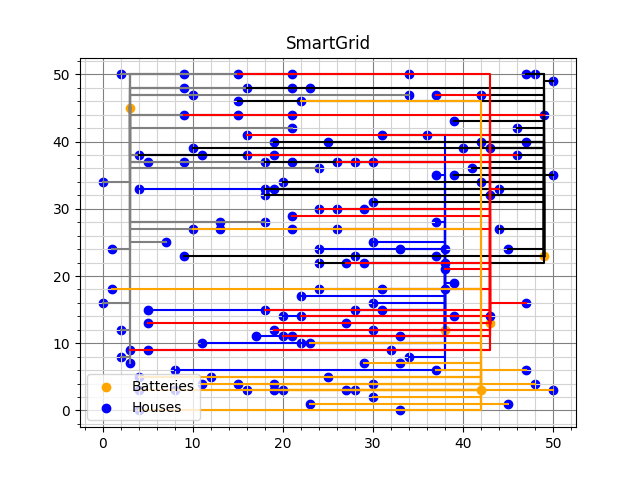
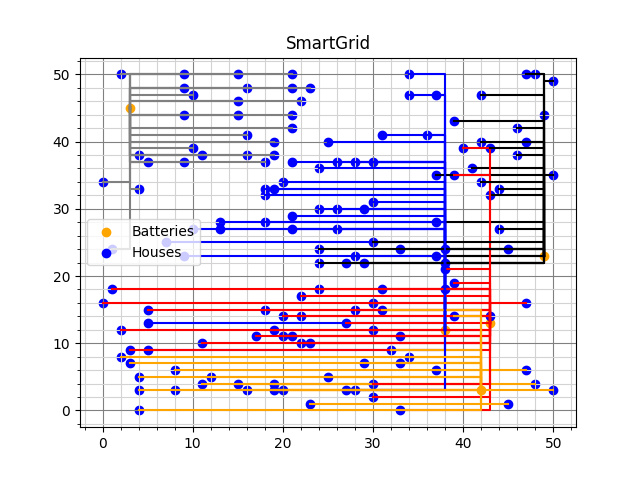
for the pull

Changed region(s): [[0.125, 0.125, 0.875, 0.875]]

diff --git a/main.py b/main.py
@@ -1,11 +1,6 @@
 from code.classes import grid
-<<<<<<< HEAD
-from code.algorithms import hill_climber, hill_climber_fix_greedy, simulated_annealing2, simulated_annealing, fix_greedy, greedy, original_greedy
-from code.visualisations import visualise_costs,  visualise_cables
-=======
 from code.algorithms import hill_climber, hill_climber_fix2, simulated_annealing2, simulated_annealing, fix_greedy, greedy, original_greedy, baseline
-from code.visualisations import visualise_costs
->>>>>>> 723a0da3c7627086ccd41f34600c9537b8c6b07a
+from code.visualisations import visualise_costs, visualise_cables
 
 import json
 import pandas as pd
@@ -14,25 +9,25 @@ import pickle
 if __name__ == "__main__":
     district_number = "1"
 
-    # battery_file = (f"data/Huizen&Batterijen/district_{district_number}/district-{district_number}_batteries.csv")
-    battery_file = (f"SmartGrid/data/Huizen&Batterijen/district_{district_number}/district-{district_number}_batteries.csv")
+    battery_file = (f"data/Huizen&Batterijen/district_{district_number}/district-{district_number}_batteries.csv")
+    #battery_file = (f"SmartGrid/data/Huizen&Batterijen/district_{district_number}/district-{district_number}_batteries.csv")
 
-    # house_file = (f"data/Huizen&Batterijen/district_{district_number}/district-{district_number}_houses.csv")
-    house_file = (f"SmartGrid/data/Huizen&Batterijen/district_{district_number}/district-{district_number}_houses.csv")
+    house_file = (f"data/Huizen&Batterijen/district_{district_number}/district-{district_number}_houses.csv")
+    #house_file = (f"SmartGrid/data/Huizen&Batterijen/district_{district_number}/district-{district_number}_houses.csv")
 
     grid1 = grid.Grid(house_file, battery_file)
 
     # --------------------------- baseline --------------------------
-    # baseline_costs = list()
+    baseline_costs = list()
 
-    # for i in range(1000):
-    #     baseline1 = baseline.Baseline(grid1)
-    #     baseline1.run()
-        # baseline_costs.append(baseline1.calc_cost())
-        # if baseline1.grid.is_valid():
-        #     print("hurray")
+    for i in range(1000):
+        baseline1 = baseline.Baseline(grid1)
+        baseline1.run()
+        baseline_costs.append(baseline1.calc_cost())
+        if baseline1.grid.is_valid():
+            print("hurray")
     
-    # visualise_costs.visualise_costs(random_costs, "random")
+    visualise_costs.visualise_costs(random_costs, "random")
     
     # --------------------------- original greedy--------------------------
     # greedy1_costs = list()
@@ -52,27 +47,16 @@ if __name__ == "__main__":
     # visualise_costs.visualise_costs(greedy1_costs, "greedy1")
 
     # --------------------------- greedy 2 --------------------------
-    # greedy2_costs = list()
+    greedy2_costs = list()
     
-<<<<<<< HEAD
-    for i in range(2):
+    for i in range(10):
         greedy2 = greedy.Greedy(grid1)
         greedy2.run_greedy()
-        print('got here')
-        fixed_greedy = hill_climber_fix_greedy.Hill_climber(greedy2.grid)
-        print('check2')
-        fixed_greedy.run_fix(10)
-        greedy2_costs.append(fix_greedy.grid.calc_cost())
-=======
-    # for i in range(2):
-    #     greedy2 = greedy.Greedy(grid1)
-    #     greedy2.run_greedy()
-    #     fixed_greedy = fix_greedy.Fix_greedy(greedy2.grid)
-    #     fixed_greedy.run2()
-    #     greedy2_costs.append(fix_greedy.grid.calc_cost())
->>>>>>> 723a0da3c7627086ccd41f34600c9537b8c6b07a
+        # fixed_greedy = fix_greedy.Fix_greedy(greedy2.grid)
+        # fixed_greedy.run2()
+        greedy2_costs.append(greedy2.grid.calc_cost())
 
-    # visualise_costs.visualise_costs(greedy2_costs, "greedy2")
+    visualise_costs.visualise_costs(greedy2_costs, "greedy2")
 
     # --------------------------- Hill Climber ---------------------------------
     # print("Setting up Hill Climber...")
@@ -87,25 +71,25 @@ if __name__ == "__main__":
     # print("valid?")
     # print(climber.grid.is_valid())
 
-    # --------------------------- Hill Climber fix 2 ---------------------------------
-    print("Setting up Hill Climber...")
-    climber = hill_climber_fix2.Hill_climber(grid1)
+    # # --------------------------- Hill Climber fix 2 ---------------------------------
+    # print("Setting up Hill Climber...")
+    # climber = hill_climber_fix2.Hill_climber(grid1)
 
-    print("Running Hill Climber...")
-    climber.run(10000, verbose=True, mutate_houses_number=10)
+    # print("Running Hill Climber...")
+    # climber.run(10000, verbose=True, mutate_houses_number=10)
 
-    print(f"Value of the configuration after Hill Climber: "
-          f"{climber.grid.calc_cost()}")
+    # print(f"Value of the configuration after Hill Climber: "
+    #       f"{climber.grid.calc_cost()}")
 
-    print("valid?")
-    print(climber.grid.is_valid())
+    # print("valid?")
+    # print(climber.grid.is_valid())
 
-    if climber.grid.is_valid():
-        climber_id = 0
-        file_name = f"SmartGrid/data/solutions/climber_{climber_id}.pickle"
+    # if climber.grid.is_valid():
+    #     climber_id = 0
+    #     file_name = f"SmartGrid/data/solutions/climber_{climber_id}.pickle"
 
-        with open(file_name, 'wb') as handle:
-            pickle.dump(climber, handle)
+    #     with open(file_name, 'wb') as handle:
+    #         pickle.dump(climber, handle)
 
 
     # --------------------------- Simulated Annealing --------------------------
@@ -228,4 +212,4 @@ if __name__ == "__main__":
 
 
 # --------------------------- visualisation --------------------------
-# visualise_cables2.visualise_cables(greedy1.grid)
+#visualise_cables.visualise(greedy2.grid)

diff --git a/code/algorithms/greedy.py b/code/algorithms/greedy.py
@@ -98,9 +98,9 @@ class Greedy:
             cable1.lay_cable()
             house.add_cable(cable1)
             
-        # for battery in self.grid.batteries.values():
-        #         print(battery.capacity())
-        # print('next:')
+        for battery in self.grid.batteries.values():
+                print(battery.get_cum_output())
+        print('Output to batteries:')
 
 
 
